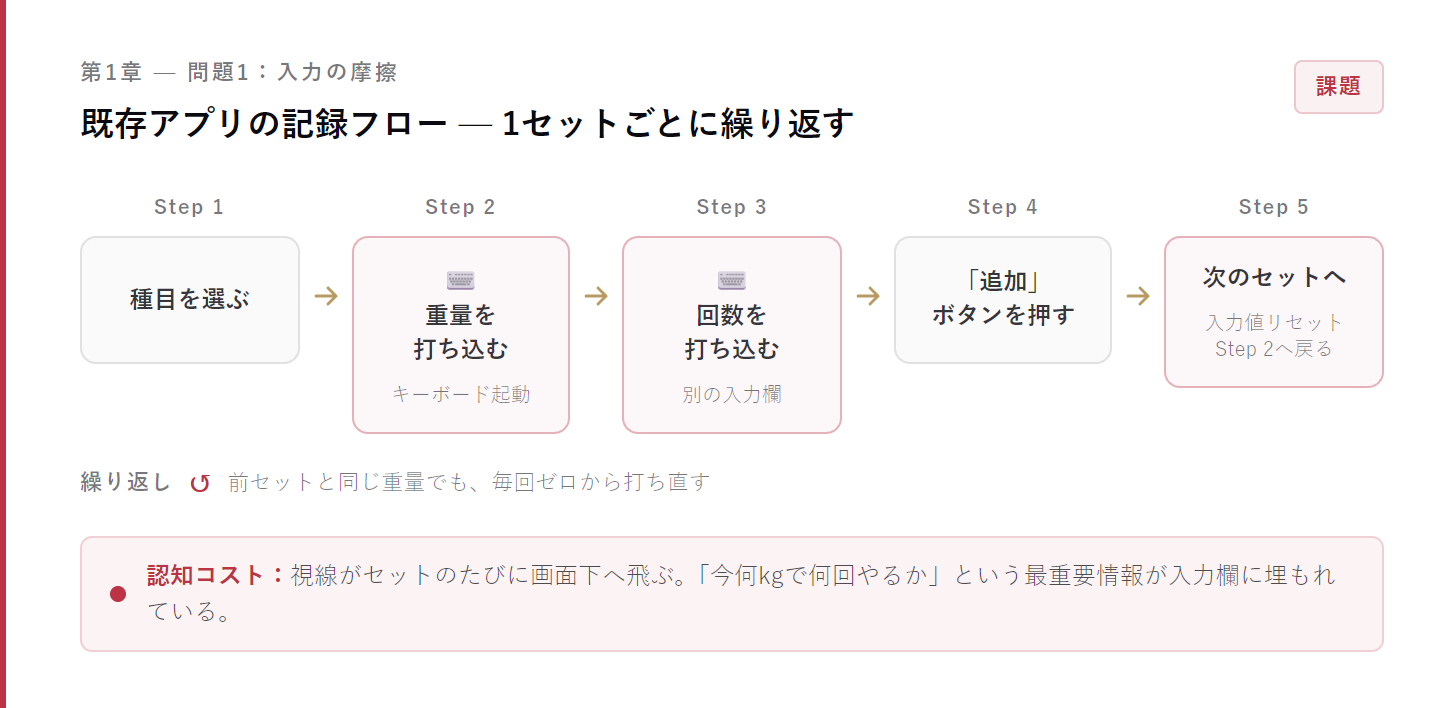
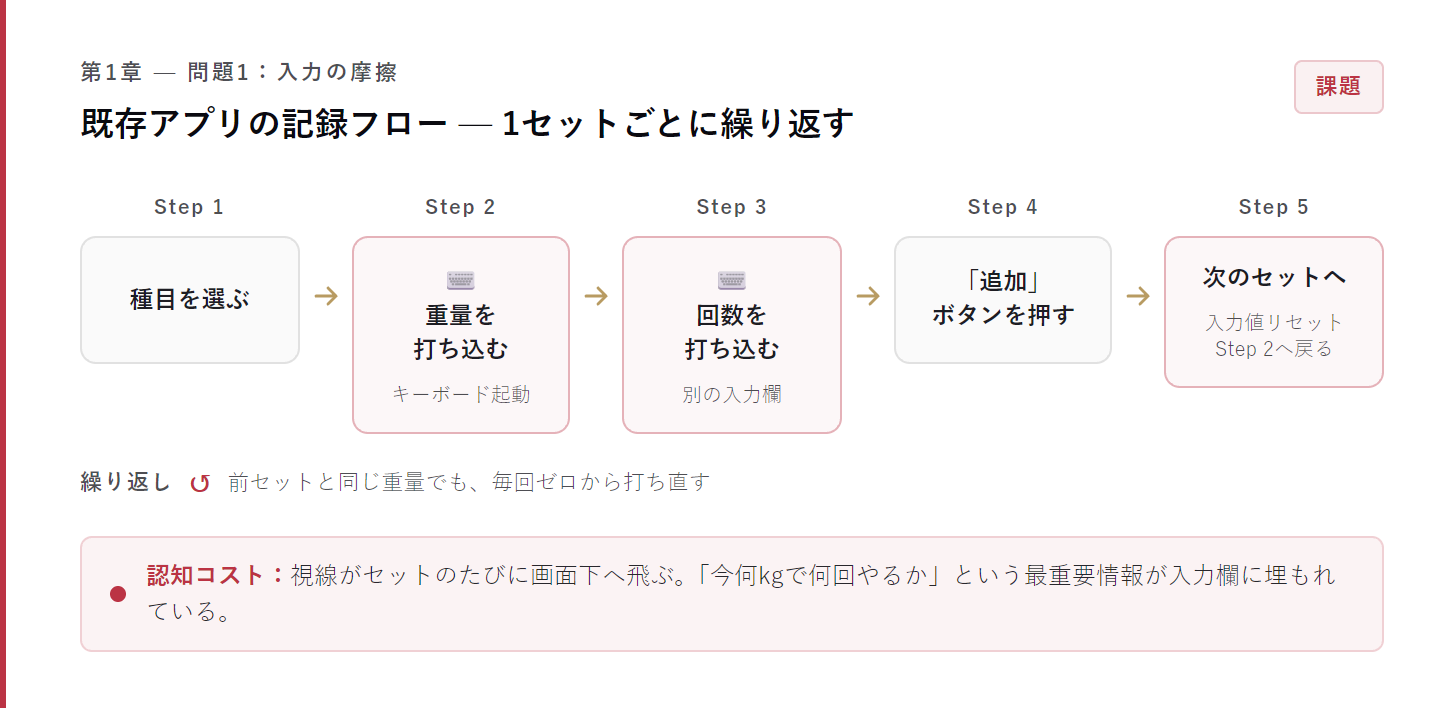
docs: フロー図のテキスト色を濃く調整
--text-faint 0.55→0.72、--text-dim 0.82→0.92、pain-bar 0.72→0.88

diff --git a/apps/fitness/docs/images/tanren-flow-bad.html b/apps/fitness/docs/images/tanren-flow-bad.html
@@ -7,8 +7,8 @@
   :root {
     --bg:         #ffffff;
     --text:       #0a0a10;
-    --text-dim:   rgba(10,10,16,0.82);
-    --text-faint: rgba(10,10,16,0.55);
+    --text-dim:   rgba(10,10,16,0.92);
+    --text-faint: rgba(10,10,16,0.72);
     --slit:       #bb3344;   /* 赤 — 問題・課題系 */
     --u: 8px;
   }
@@ -156,7 +156,7 @@
   }
   .pain-bar-text {
     font-size: 12px;
-    color: rgba(10,10,16,0.72);
+    color: rgba(10,10,16,0.88);
     line-height: 1.5;
   }
   .pain-bar-text strong {
